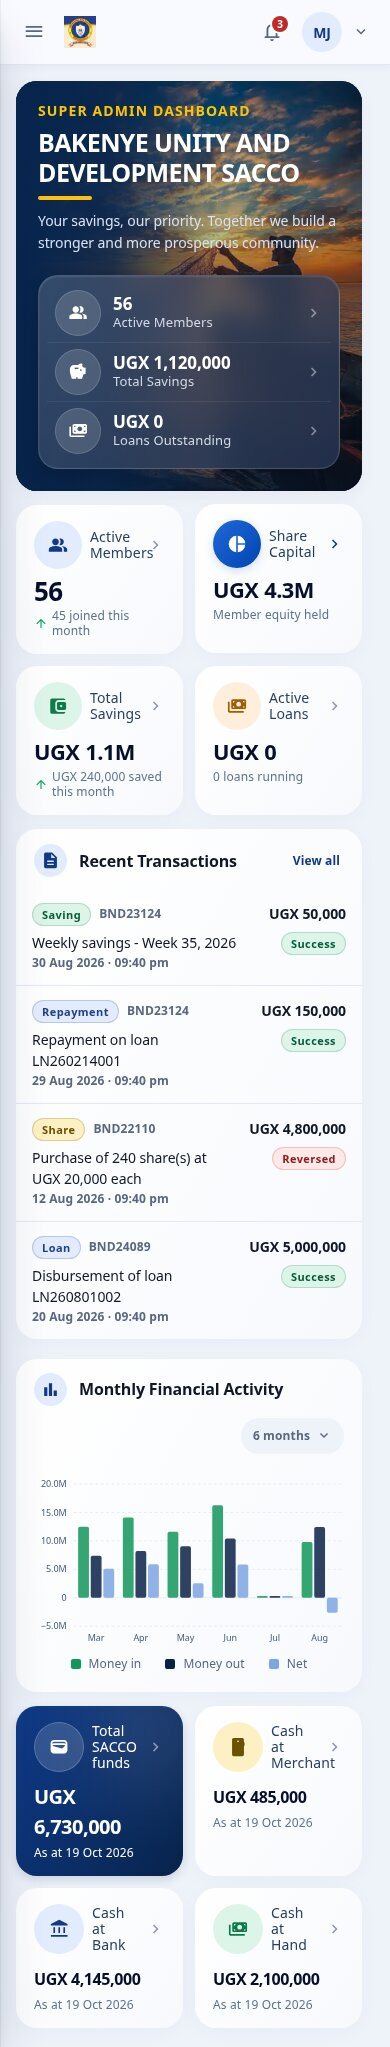
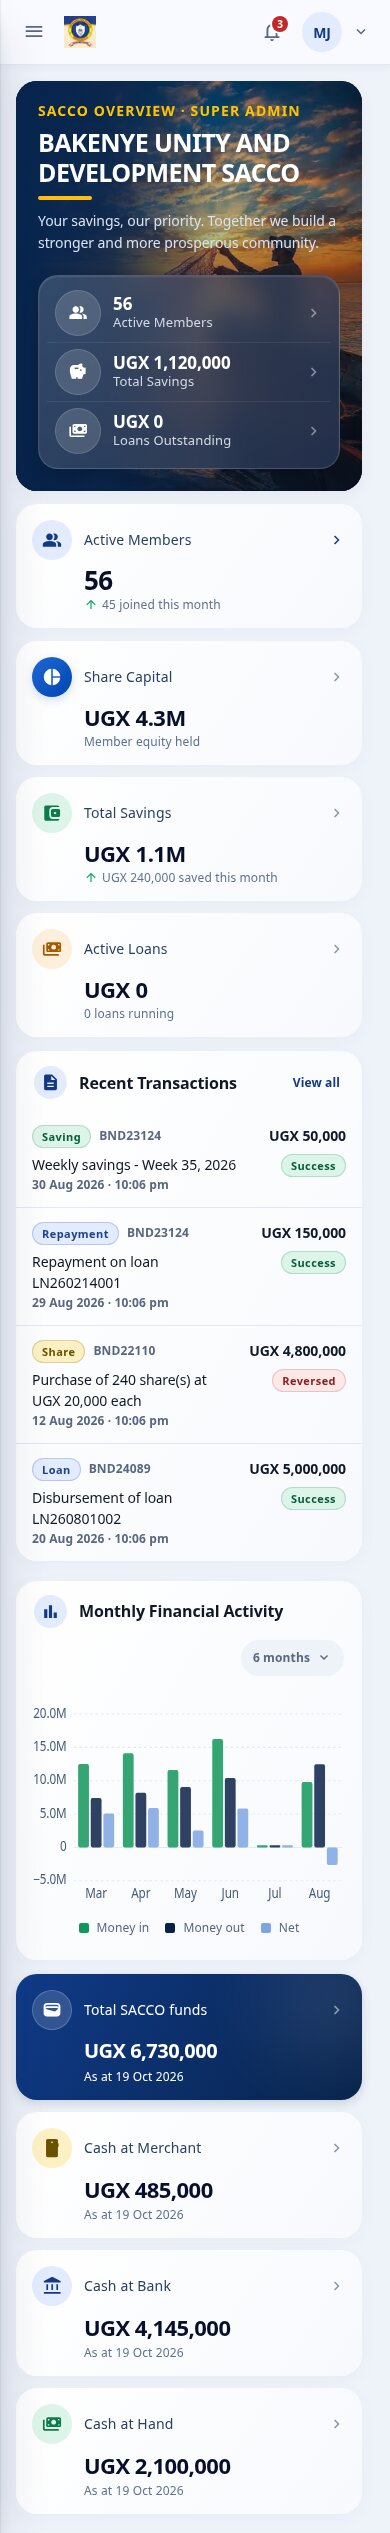
Refine SACCO Overview cards and chart for mobile

diff --git a/src/components/staff/OverviewDashboard.module.css b/src/components/staff/OverviewDashboard.module.css
@@ -97,11 +97,35 @@
   .overview :global([data-overview-dashboard] > [data-hero] p:last-of-type) { font-size: 14px; }
   .overview :global([data-overview-dashboard] > [data-hero] dl) { width: 100%; padding: 8px; }
   .overview :global([data-overview-dashboard] > [data-hero] dl dd) { font-size: 17px; }
-  .overview :global([data-overview-metrics] [data-kpi] > div:first-child) { gap: 8px; }
-  .overview :global([data-overview-metrics] [data-kpi] > div:last-child) { margin-top: 8px; padding-left: 0; }
-  .overview :global([data-overview-metrics] [data-kpi] > div:last-child > div > div) { font-size: clamp(18px, 5.6vw, 22px); line-height: 28px; }
+  /* Give headings and chevrons dedicated columns instead of wrapping flex items. */
+  .overview :global([data-overview-metrics] [data-kpi]),
+  .overview :global([data-overview-dashboard] > [aria-label='SACCO funds'] [data-kpi]) { padding: 16px; }
+  .overview :global([data-overview-metrics] [data-kpi] > div:first-child),
+  .overview :global([aria-label='SACCO funds'] [data-kpi] > div:not([aria-hidden]):first-of-type),
+  .overview :global([aria-label='SACCO funds'] [data-kpi] > div[aria-hidden] + div) {
+    display: grid;
+    grid-template-columns: 40px minmax(0, 1fr) 18px;
+    gap: 12px;
+  }
+  .overview :global([data-overview-metrics] [data-kpi] > div:first-child > span:first-child),
+  .overview :global([aria-label='SACCO funds'] [data-kpi] > div > span:first-child) { width: 40px; height: 40px; }
+  .overview :global([data-overview-metrics] [data-kpi] > div:last-child),
+  .overview :global([aria-label='SACCO funds'] [data-kpi] > div:last-child) { margin-top: 6px; padding-left: 52px; }
+  .overview :global([data-overview-metrics] [data-kpi] > div:last-child > div > div) { font-size: 22px; line-height: 28px; }
   .overview :global([data-overview-metrics] [data-kpi]:first-child > div:last-child > div > div) { font-size: 26px; }
-  .overview :global([data-overview-metrics] [data-kpi] .tabular.flex) { flex-wrap: wrap; }
+  .overview :global([data-overview-metrics] [data-kpi] .tabular.flex) { flex-wrap: nowrap; white-space: nowrap; }
   .overview :global([data-overview-metrics] [data-kpi] > div:last-child > span[aria-hidden]) { display: none; }
   .overview :global([data-overview-metrics] [data-kpi] > div:last-child:has(> span[aria-hidden]) > div) { padding-right: 0; }
+  .overview :global([data-overview-dashboard] > [aria-label='SACCO funds']) { grid-template-columns: minmax(0, 1fr); }
+  .overview :global([aria-label='SACCO funds'] [data-kpi] > div > p) { white-space: nowrap; }
+  .overview :global([aria-label='SACCO funds'] [data-kpi] > div:last-child > div > div) { font-size: 22px; line-height: 30px; }
+  .overview :global([aria-label='SACCO funds'] [data-kpi] .tabular) { white-space: nowrap; }
+  /* Keep the month labels readable on phones without compressing their spacing. */
+  .overview :global([data-admin-panels] figure) { padding: 8px 0 4px; }
+  .overview :global([data-admin-panels] figure svg) { height: 190px; max-height: none; }
+  .overview :global([data-admin-panels] figure svg text) { font-size: 13px; }
+  .overview :global([data-admin-panels] figure figcaption) { gap: 16px; margin-top: 16px; }
+}
+@media (max-width: 479px) {
+  .overview :global([data-overview-metrics]) { grid-template-columns: minmax(0, 1fr); }
 }

diff --git a/src/app/dev/preview/dashboard/page.tsx b/src/app/dev/preview/dashboard/page.tsx
@@ -97,7 +97,7 @@ export default async function DashboardPreview({
           />
         ) : (
           <BrandHero
-            eyebrow="Super Admin Dashboard"
+            eyebrow="SACCO Overview · Super Admin"
             nameTop="BAKENYE UNITY AND"
             nameBottom="DEVELOPMENT SACCO"
             description="Your savings, our priority. Together we build a stronger and more prosperous community."

diff --git a/src/app/(staff)/staff/page.tsx b/src/app/(staff)/staff/page.tsx
@@ -145,7 +145,7 @@ function Hero({ saccoName, roleName }: { saccoName: string; roleName: string }) 
 
   return (
     <BrandHero
-      eyebrow={`${roleName} Dashboard`}
+      eyebrow={`SACCO Overview · ${roleName}`}
       nameTop={heroNameTop}
       nameBottom={heroNameBottom}
       description="Your savings, our priority. Together we build a stronger and more prosperous community."
